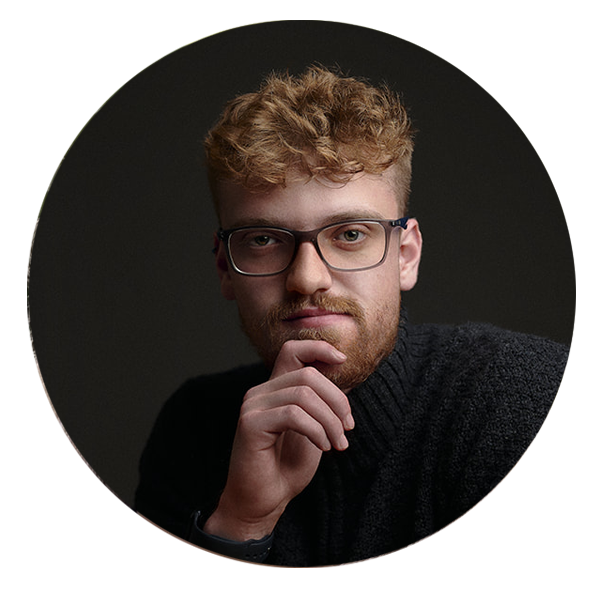
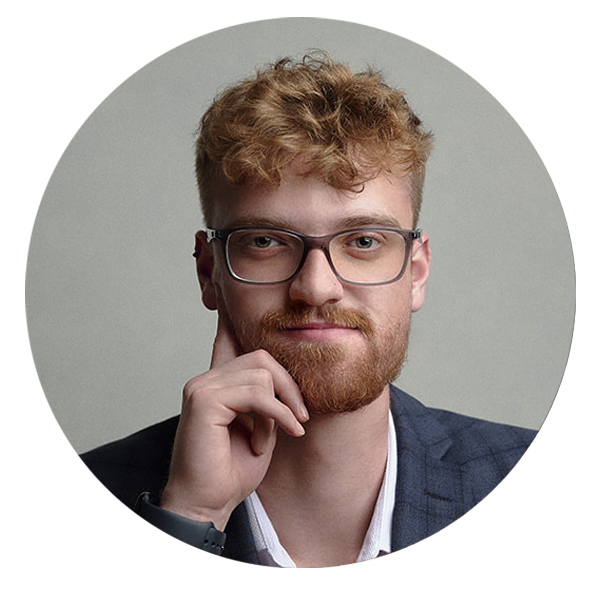
laura

diff --git a/committee/index.html b/committee/index.html
@@ -373,6 +373,25 @@ ol,ul{box-sizing:border-box}:root :where(.wp-block-list.has-background){padding:
     </p>
   </div>
 
+	<!-- Laura  -->
+	<div style="text-align:center; padding:20px;">
+		<p class="has-text-align-center has-custom-dropdown-background-color has-background">
+			<strong>
+				<a href="#" target="_blank" rel="noreferrer noopener">
+					Laura Zisa-Swann
+				</a>
+			</strong>
+		</p>
+
+		<img src="../images/Laura_org.png"
+				 alt="Laura Zisa-Swann"
+				 style="width:220px; height:auto; border-radius:10px; display:block; margin:10px auto;">
+
+		<p style="margin-top:10px;">
+			Student support coordination
+		</p>
+	</div>
+
 </div>
 
 
